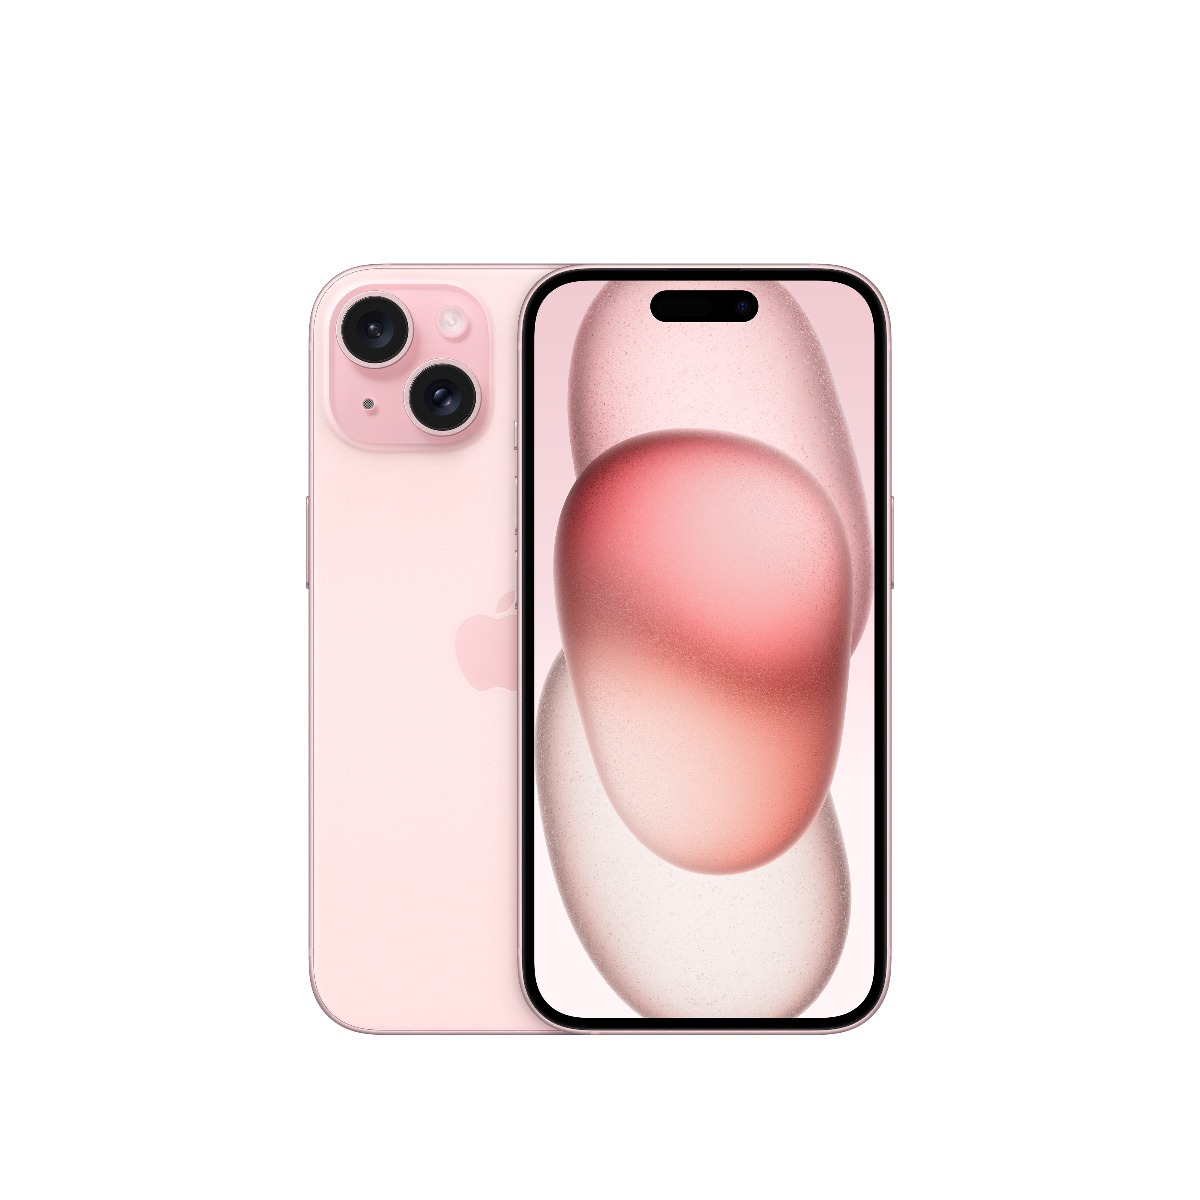
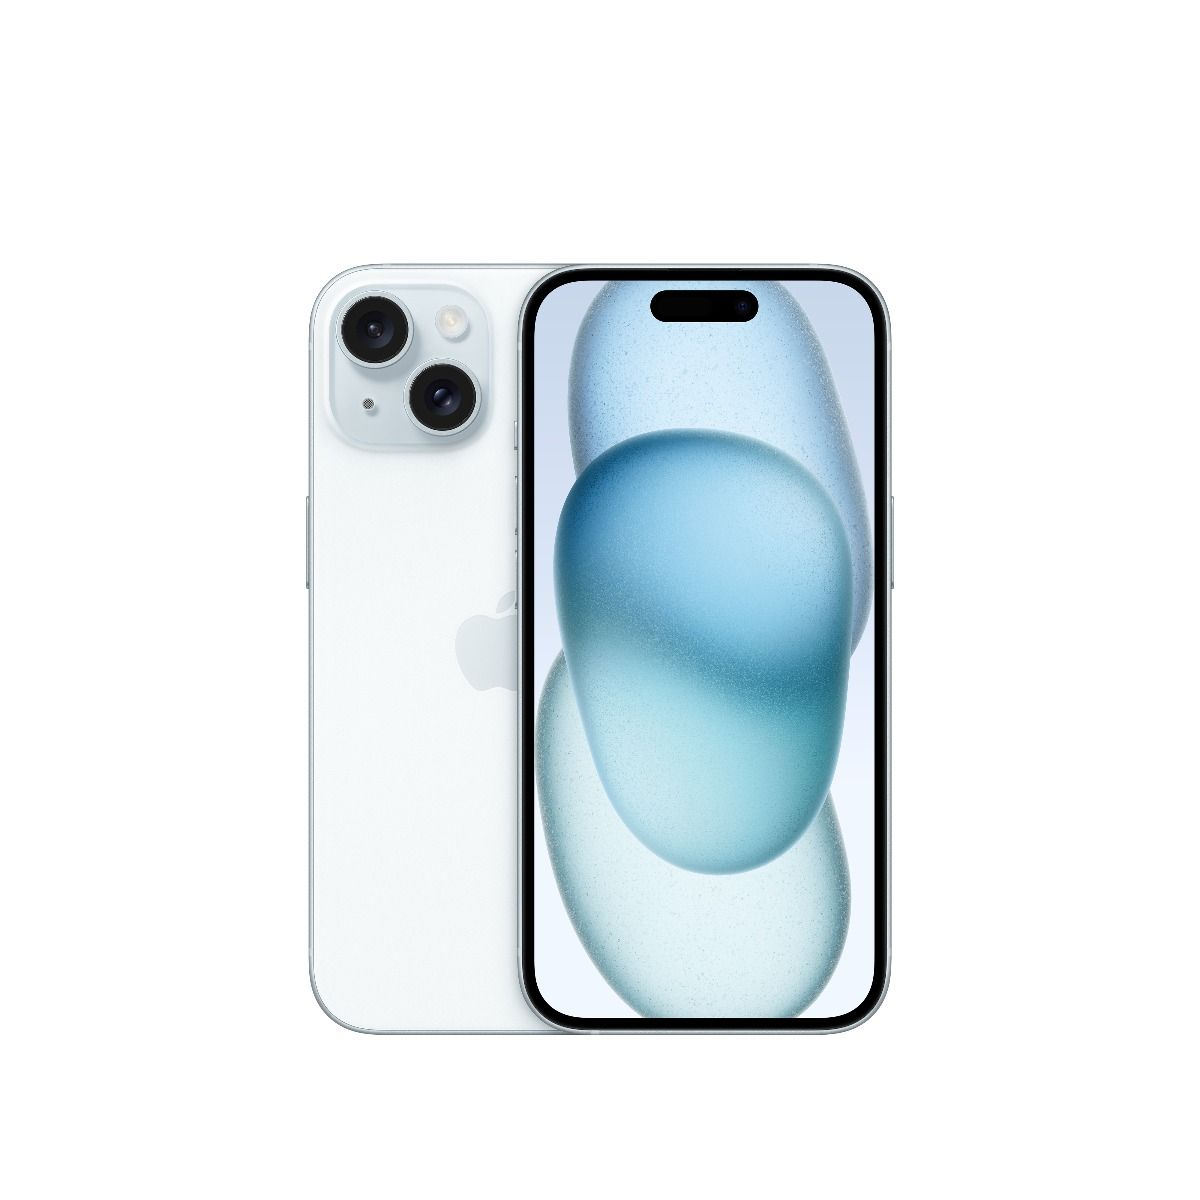
updated products

Changed region(s): [[0.2467, 0.2158, 0.7708, 0.8633], [0.2467, 0.4008, 0.2775, 0.4933], [0.2467, 0.8017, 0.2775, 0.8325]]

diff --git a/server/migrations/product.js b/server/migrations/product.js
@@ -4,17 +4,45 @@ const Product = require('../models/product');
 const productsArray = [
     {
       id: '1',
-      title: 'Sample Product 1',
-      description: 'This is a sample product description 1',
-      price: 20000,
-      image: 'iphone_15.jpg'
+      title: 'iPhone 15 Pro Max 1TB',
+      description: 'A17 Pro chip Fantasztikus teljesítményével újraírja a játékszabályokat.',
+      price: 749990,
+      image: 'iphone_15_pro.jpg'
     },
     {
       id: '2',
-      title: 'Sample Product 2',
-      description: 'This is a sample product description 2',
-      price: 25000,
+      title: 'iPhone 15 128GB',
+      description: 'Anyagában színezett üveg Masszív és megkapó dizájn.',
+      price: 329990,
       image: 'iphone_15.jpg'
+    },
+    {
+      id: '3',
+      title: 'iPhone 14 Pro Max 512GB',
+      description: 'Super Retina XDR‑kijelző',
+      price: 549990,
+      image: 'iphone_14_pro.jpg'
+    },
+    {
+      id: '4',
+      title: 'iPhone 14 256GB',
+      description: 'Ütközésészlelés funkció. Minden eddiginél hosszabb aksiüzemidő.',
+      price: 449990,
+      image: 'iphone_14.jpg'
+    },
+    {
+      id: '5',
+      title: 'iPhone 13 128GB',
+      description: 'Strapabíró kialakítású, szuperfényes kijelző.',
+      price: 239990,
+      image: 'iphone_13.jpg'
+    },
+    {
+      id: '6',
+      title: 'iPhone 12 128GB',
+      description: '5G-vel hasít. Az A14 Bionic, a leggyorsabb okostelefonchip hajtja. ',
+      price: 234990,
+      image: 'iphone_12.jpg'
     },
   ];
 

diff --git a/client/README.md b/client/README.md
@@ -5,10 +5,10 @@
 
 # Run
 
-## Client:
+### Client:
  - In the client directory run `ng serve --o`
 
-## Server:
+### Server:
  - In the server directory run `node index.js`
 
 
